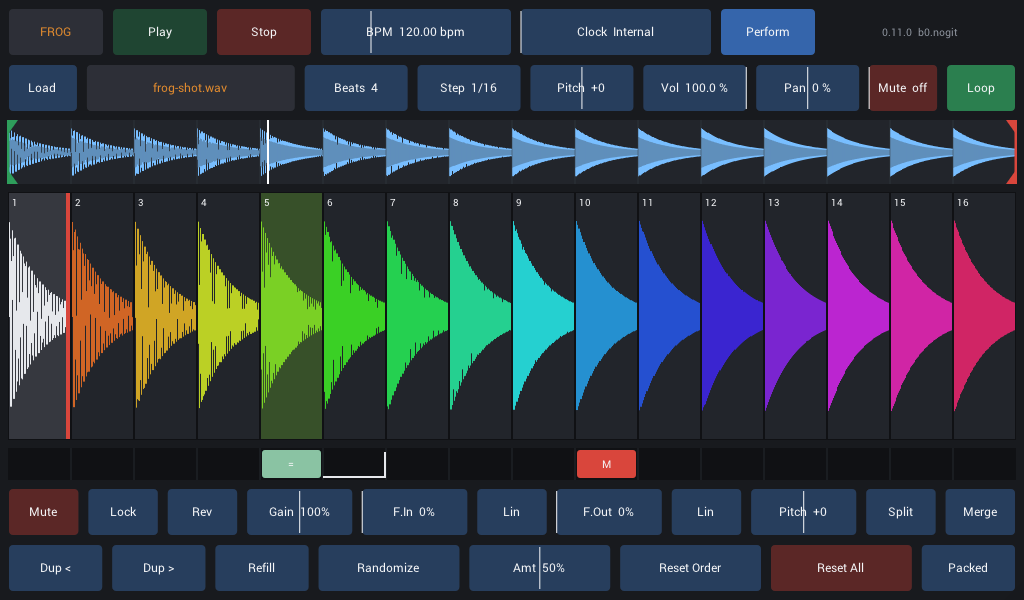
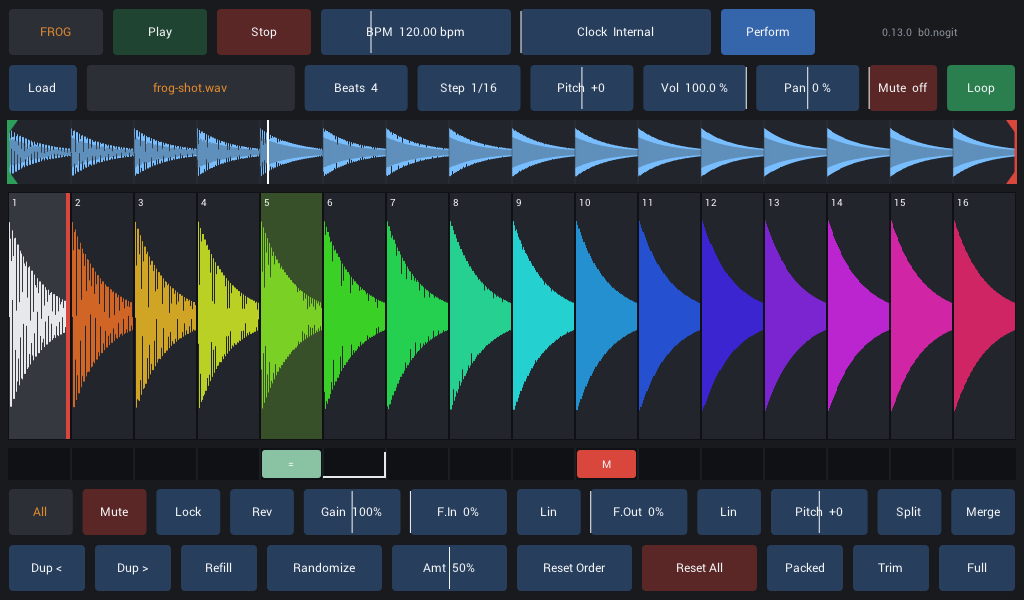
0.14.0: F14 — All broadcast toggle (fill-up semantics, Refill-all), Trim / Full zoom through the virtual window in the waveform and playhead; evidence refreshed

Changed region(s): [[0.0, 0.81, 0.9688, 0.99]]

diff --git a/Frog/ui/FrogView.h b/Frog/ui/FrogView.h
@@ -275,7 +275,8 @@ private:
 		mModLane->Bind(Pat(), [this] { Publish(); }, [this](int i) { ShowModPanel(i >= 0); });
 		g->AttachControl(mModLane);
 
-		// --- slice toolbar (row 1: the selected slice) ---------------------
+		// --- slice toolbar (row 1: the selected slice, or every slice with All) ---
+		mAll = drag(add(DragControl::Toggle(z, "All", false, Intent::Label, [this](double) { RefreshToolbar(); }), mToolbar1, 1.f));
 		mMute = drag(add(DragControl::Toggle(z, "Mute", false, Intent::Stop, [this](double v) { SetSel([&](fg_tile& t) { t.muted = v >= 0.5; }); }), mToolbar1, 1.f));
 		mLock = drag(add(DragControl::Toggle(z, "Lock", false, Intent::Neutral, [this](double v) { SetSel([&](fg_tile& t) { t.locked = v >= 0.5; }); }), mToolbar1, 1.f));
 		mRev = drag(add(DragControl::Toggle(z, "Rev", false, Intent::Neutral, [this](double v) { SetSel([&](fg_tile& t) { t.reversed = v >= 0.5; }); }), mToolbar1, 1.f));
@@ -311,11 +312,14 @@ private:
 		add(DragControl::Button(z, "Dup >", Intent::Neutral, [this](double) { Dup(+1); }), mToolbar2, 1.f);
 		add(DragControl::Button(z, "Refill", Intent::Neutral, [this](double) {
 			const int i = mTiles->Selected();
-			if (i >= 0 && fg_edit_refill(Pat(), i)) {
-				Publish();
-				mTiles->Refresh();
-				RefreshToolbar();
+			if (mAll->On()) {
+				fg_edit_refill_all(Pat());
+			} else if (i < 0 || !fg_edit_refill(Pat(), i)) {
+				return;
 			}
+			Publish();
+			mTiles->Refresh();
+			RefreshToolbar();
 		}), mToolbar2, 1.f);
 		add(DragControl::Button(z, "Randomize", Intent::Neutral, [this](double) {
 			if (fg_edit_randomize(Pat(), Pat()->randLevel / 100.0, &mRng)) {
@@ -343,6 +347,33 @@ private:
 			mHost.EditMode() = v >= 0.5 ? FG_EDIT_GAPS : FG_EDIT_PACK;
 			mTiles->Refresh();
 		}), mToolbar2, 1.f));
+		// zoom: Trim makes the selection the view; Full shows the whole sample again
+		add(DragControl::Button(z, "Trim", Intent::Neutral, [this](double) {
+			fg_pattern* p = Pat();
+			const double vs = p->virtualStart, vspan = p->virtualEnd - vs;
+			const double ns = vs + p->start * vspan, ne = vs + p->end * vspan;
+			if (ne - ns < 0.001) {
+				return;
+			}
+			p->virtualStart = ns;
+			p->virtualEnd = ne;
+			p->start = 0.0;
+			p->end = 1.0;
+			Publish();
+			mWaveform->SetDirty(false);
+			mTiles->Refresh();
+		}), mToolbar2, 1.f);
+		add(DragControl::Button(z, "Full", Intent::Neutral, [this](double) {
+			fg_pattern* p = Pat();
+			const double vs = p->virtualStart, vspan = p->virtualEnd - vs;
+			p->start = vs + p->start * vspan;   /* keep the audible region where it is */
+			p->end = vs + p->end * vspan;
+			p->virtualStart = 0.0;
+			p->virtualEnd = 1.0;
+			Publish();
+			mWaveform->SetDirty(false);
+			mTiles->Refresh();
+		}), mToolbar2, 1.f);
 
 		// --- modifier settings (shown in place of the toolbars while a chip is selected) ---
 		mModAction = drag(add(DragControl::Enum(z, "", {"Mute", "Rev", "Gain", "Rand", "Reset", "Ratchet"}, 0, [this](double v) { SetMod([&](fg_mod& m) { m.action = (uint8_t)v; }); }), mModRow1, 1.5f));
@@ -468,10 +499,23 @@ private:
 		}
 	}
 
-	// apply a setter to the selected clip, publish, redraw
+	// apply a setter to the selected clip (or, with All lit, to every clip),
+	// publish, redraw. Toggles follow fill-up semantics through the control's
+	// own value: the control shows "on" only when every clip is on, so a tap
+	// from a mixed state turns everything on, and from all-on everything off.
 	void SetSel(const std::function<void(fg_tile&)>& fn) {
-		const int i = mTiles->Selected();
 		fg_pattern* p = Pat();
+		if (mAll && mAll->On()) {
+			for (int k = 0; k < p->nTiles; k++) {
+				if (!p->tiles[k].gap) {
+					fn(p->tiles[k]);
+				}
+			}
+			Publish();
+			mTiles->Refresh();
+			return;
+		}
+		const int i = mTiles->Selected();
 		if (i < 0 || i >= p->nTiles || p->tiles[i].gap) {
 			return;
 		}
@@ -515,17 +559,43 @@ private:
 		RefreshToolbar();
 	}
 
-	// toolbar follows the selection
+	// toolbar follows the selection (or, with All, the whole row)
 	void RefreshToolbar() {
 		const int i = mTiles->Selected();
 		const fg_pattern* p = Pat();
-		const bool clip = i >= 0 && i < p->nTiles && !p->tiles[i].gap;
+		const bool all = mAll && mAll->On();
+		const bool clip = all ? p->nTiles > 0 : (i >= 0 && i < p->nTiles && !p->tiles[i].gap);
 		DragControl* sliceControls[] = {mMute, mLock, mRev, mGain, mFadeIn, mCurveIn, mFadeOut, mCurveOut, mOffset};
 		for (auto* c : sliceControls) {
 			c->WithEnabled(clip);
 			c->SetDirty(false);
 		}
+		if (all) {
+			mLock->WithEnabled(false);   /* Lock and Dup stay per slice */
+		}
 		if (!clip) {
+			return;
+		}
+		if (all) {
+			// the row's state: toggles read "on" only when every clip is on
+			bool allMuted = true, allRev = true;
+			for (int k = 0; k < p->nTiles; k++) {
+				if (p->tiles[k].gap) {
+					continue;
+				}
+				allMuted = allMuted && p->tiles[k].muted;
+				allRev = allRev && p->tiles[k].reversed;
+			}
+			mMute->SetLocalValue(allMuted);
+			mRev->SetLocalValue(allRev);
+			const int k = i >= 0 && i < p->nTiles ? i : 0;
+			const fg_tile& t = p->tiles[k];
+			mGain->SetLocalValue(t.gain * 100.);
+			mFadeIn->SetLocalValue(t.fadeIn * 100.);
+			mCurveIn->SetLocalValue(t.curveIn);
+			mFadeOut->SetLocalValue(t.fadeOut * 100.);
+			mCurveOut->SetLocalValue(t.curveOut);
+			mOffset->SetLocalValue(t.offset);
 			return;
 		}
 		const fg_tile& t = p->tiles[i];
@@ -575,6 +645,7 @@ private:
 	FrogVersionReadout* mVersion = nullptr;
 	FileListControl* mFileList = nullptr;
 	DragControl *mPerformBtn = nullptr, *mFileChip = nullptr, *mBeats = nullptr, *mStep = nullptr, *mPitch = nullptr, *mLoop = nullptr;
+	DragControl* mAll = nullptr;
 	DragControl *mMute = nullptr, *mLock = nullptr, *mRev = nullptr, *mGain = nullptr, *mFadeIn = nullptr, *mCurveIn = nullptr, *mFadeOut = nullptr, *mCurveOut = nullptr, *mOffset = nullptr;
 	DragControl *mAmt = nullptr, *mModeBtn = nullptr;
 };

diff --git a/Frog/ui/WaveformControl.h b/Frog/ui/WaveformControl.h
@@ -34,9 +34,16 @@ public:
 	void SetOnDrop(DropFn fn) { mOnDrop = std::move(fn); }
 	void SetEmptyText(const char* s) { mEmptyText = s; }
 
-	// playhead as a fraction of the sample (< 0 hides it); redraws only on a
-	// visible change
+	// playhead as a fraction of the whole sample (< 0 hides it), mapped into
+	// the view's virtual window; redraws only on a visible change
 	void SetPlayhead(double frac) {
+		if (frac >= 0.0 && mPattern) {
+			const double vs = mPattern->virtualStart, ve = mPattern->virtualEnd;
+			frac = ve > vs ? (frac - vs) / (ve - vs) : frac;
+			if (frac < 0.0 || frac > 1.0) {
+				frac = -1.0;
+			}
+		}
 		const float px = frac < 0.0 ? -1.f : std::round((float)frac * mRECT.W());
 		if (px != mPlayheadPx) {
 			mPlayheadPx = px;
@@ -95,12 +102,14 @@ public:
 		const int W = (int)r.W();
 		const float mid = r.MH();
 		const float half = r.H() * 0.5f - 2.f;
+		const double vs = mPattern ? mPattern->virtualStart : 0.0;
+		const double vspan = mPattern ? (mPattern->virtualEnd - vs) : 1.0;
 		for (int px = 0; px < W; px++) {
 			const double f0 = (double)px / W, f1 = (double)(px + 1) / W;
 			const bool inside = f1 > selS && f0 < selE;
 			for (int c = 0; c < mPeaks->nCh; c++) {
 				float lo, hi;
-				mPeaks->Range(c, f0, f1, lo, hi);
+				mPeaks->Range(c, vs + f0 * vspan, vs + f1 * vspan, lo, hi);
 				const float y0 = mid - hi * half, y1 = mid - lo * half;
 				const IColor col = inside ? (c == 0 ? kWave : kWaveDim) : kWaveDim;
 				g.DrawVerticalLine(col, r.L + px + 0.5f, std::min(y0, y1), std::max(y0, y1) + 1.f, c == 0 ? 0 : &BLEND_50, 1.f);

diff --git a/Frog/config.h b/Frog/config.h
@@ -1,7 +1,7 @@
 #define PLUG_NAME "Frog"
 #define PLUG_MFR "Rat Factory"
-#define PLUG_VERSION_HEX 0x00000D00
-#define PLUG_VERSION_STR "0.13.0"
+#define PLUG_VERSION_HEX 0x00000E00
+#define PLUG_VERSION_STR "0.14.0"
 // AU subtype is the product, manufacturer is the org: auval -v aumu Frog RatF.
 // Keep these lines free of trailing comments — prepare_resources-mac.py parses
 // config.h by hand and folds anything after the value into the plist string.

diff --git a/ROADMAP.md b/ROADMAP.md
@@ -46,7 +46,7 @@ Design and reasoning: [docs/PORT_PLAN.md](docs/PORT_PLAN.md).
 | F11 | MVP release — one track end-to-end on the Mac (appliance: in the container; on the board pending), docs/ARCHITECTURE.md, README, tag `v0.11-mvp` | Done 0.11.0 (on-device gate open, with F3.6) |
 | F12 | Live-performance pass — critique the UI with the device in hand: permanent big actions, pad / trigger mode, what moves to MIDI | Planned |
 | F13 | Modifier lane — one modifier per step, prob / every-N, mute / rev / gain actions, rand / reset pattern actions via `beforeTile`, pinned settings panel, chip flash / firing / superseded visuals | Done 0.13.0 |
-| F14 | Ratchet + pattern tools — even / ramp / pitch hit layouts, span absorption, randomize with lock buckets, Reset Order / Reset All, lock, dup, refill, split / merge, Packed vs Gaps (rasterize → rebuild), grid-change inheritance | Planned |
+| F14 | Ratchet + pattern tools — even / ramp / pitch hit layouts, span absorption, randomize with lock buckets, Reset Order / Reset All, lock, dup, refill, split / merge, Packed vs Gaps (rasterize → rebuild), grid-change inheritance, the All broadcast, zoom (Trim / Full) | Done 0.14.0 |
 | F15 | Multi-track — up to `max_tracks` (4 on Pi 3), focus track + summary rows, add / duplicate / remove, in-phase join, master mix | Planned |
 | F16 | Performance MIDI — note-triggered slices, CC map (learn), program change = session, `appliance.conf` keys | Planned |
 | F17 | Bounce — offline render of the master mix to `RF_DATA_DIR/exports`, length in beats, normalise | Planned |
@@ -62,6 +62,18 @@ Design and reasoning: [docs/PORT_PLAN.md](docs/PORT_PLAN.md).
 | F1.3 | Write docs/PORT_PLAN.md: architecture, stretch strategy, clock sources, caps, UI adaptation, milestones, tests, risks | Done |
 | F1.4 | Branches: `js` preserves the browser app at its last commit; `native` carries the port | Done |
 | F1.5 | Decisions (2026-10-03, **0.1.1**): name **Frog**; record (F18) runs in parallel with the MVP with both halves tracked in sync; float32 sample storage accepted, all shared math stays `double` | Done |
+
+### F14 — Ratchet + pattern tools
+
+Most of this list landed inside earlier efforts: hit layouts and span
+absorption (F6), randomize / reset / lock / dup / refill / split / merge /
+gaps raster / grid-change inheritance (F10.9). What remained:
+
+| ID | Subtask | Status |
+|----|---------|--------|
+| F14.1 | **All** broadcast toggle in the slice toolbar: while lit, Mute / Rev / Gain / fades / curves / Pitch apply to every clip (toggles read "on" only when every clip is on, so a tap from a mixed state turns all on, from all-on all off); Refill with All refills every unlocked entry; Lock and Dup stay per slice | Done |
+| F14.2 | Zoom: **Trim** makes the selection the view (`virtualStart/End`, the selection becomes 0..1 of it), **Full** shows the whole sample again with the audible region kept; the waveform draws the virtual window and maps the playhead into it; tile waveforms already read through it | Done |
+| F14.3 | Per-slice pitch is the toolbar's Pitch control (the browser's mouse wheel) | Done |
 
 ### F13 — Modifier lane
 
@@ -241,6 +253,9 @@ on the way. Bounces are committed, so `run-tests.sh` needs no browser.
   both build systems, root gitignore. APP / VST3 / AU build Release with
   Xcode 26.6; auval passes; CMake configures. The VST3 SDK must be fetched
   once with the fork's `download-vst3-sdk.sh`.
+- **F14 complete (0.14.0).** The All broadcast and the Trim / Full zoom
+  close the pattern-tool list; everything else in F14 had landed with F6
+  and F10. Next: F17 (bounce from the UI) and F15 (multi-track), then F16.
 - **F13 complete (0.13.0).** The modifier lane is in the panel with its
   settings replacing the toolbars while a chip is selected, and the live
   flash / firing / superseded states driven from the engine's rings.
